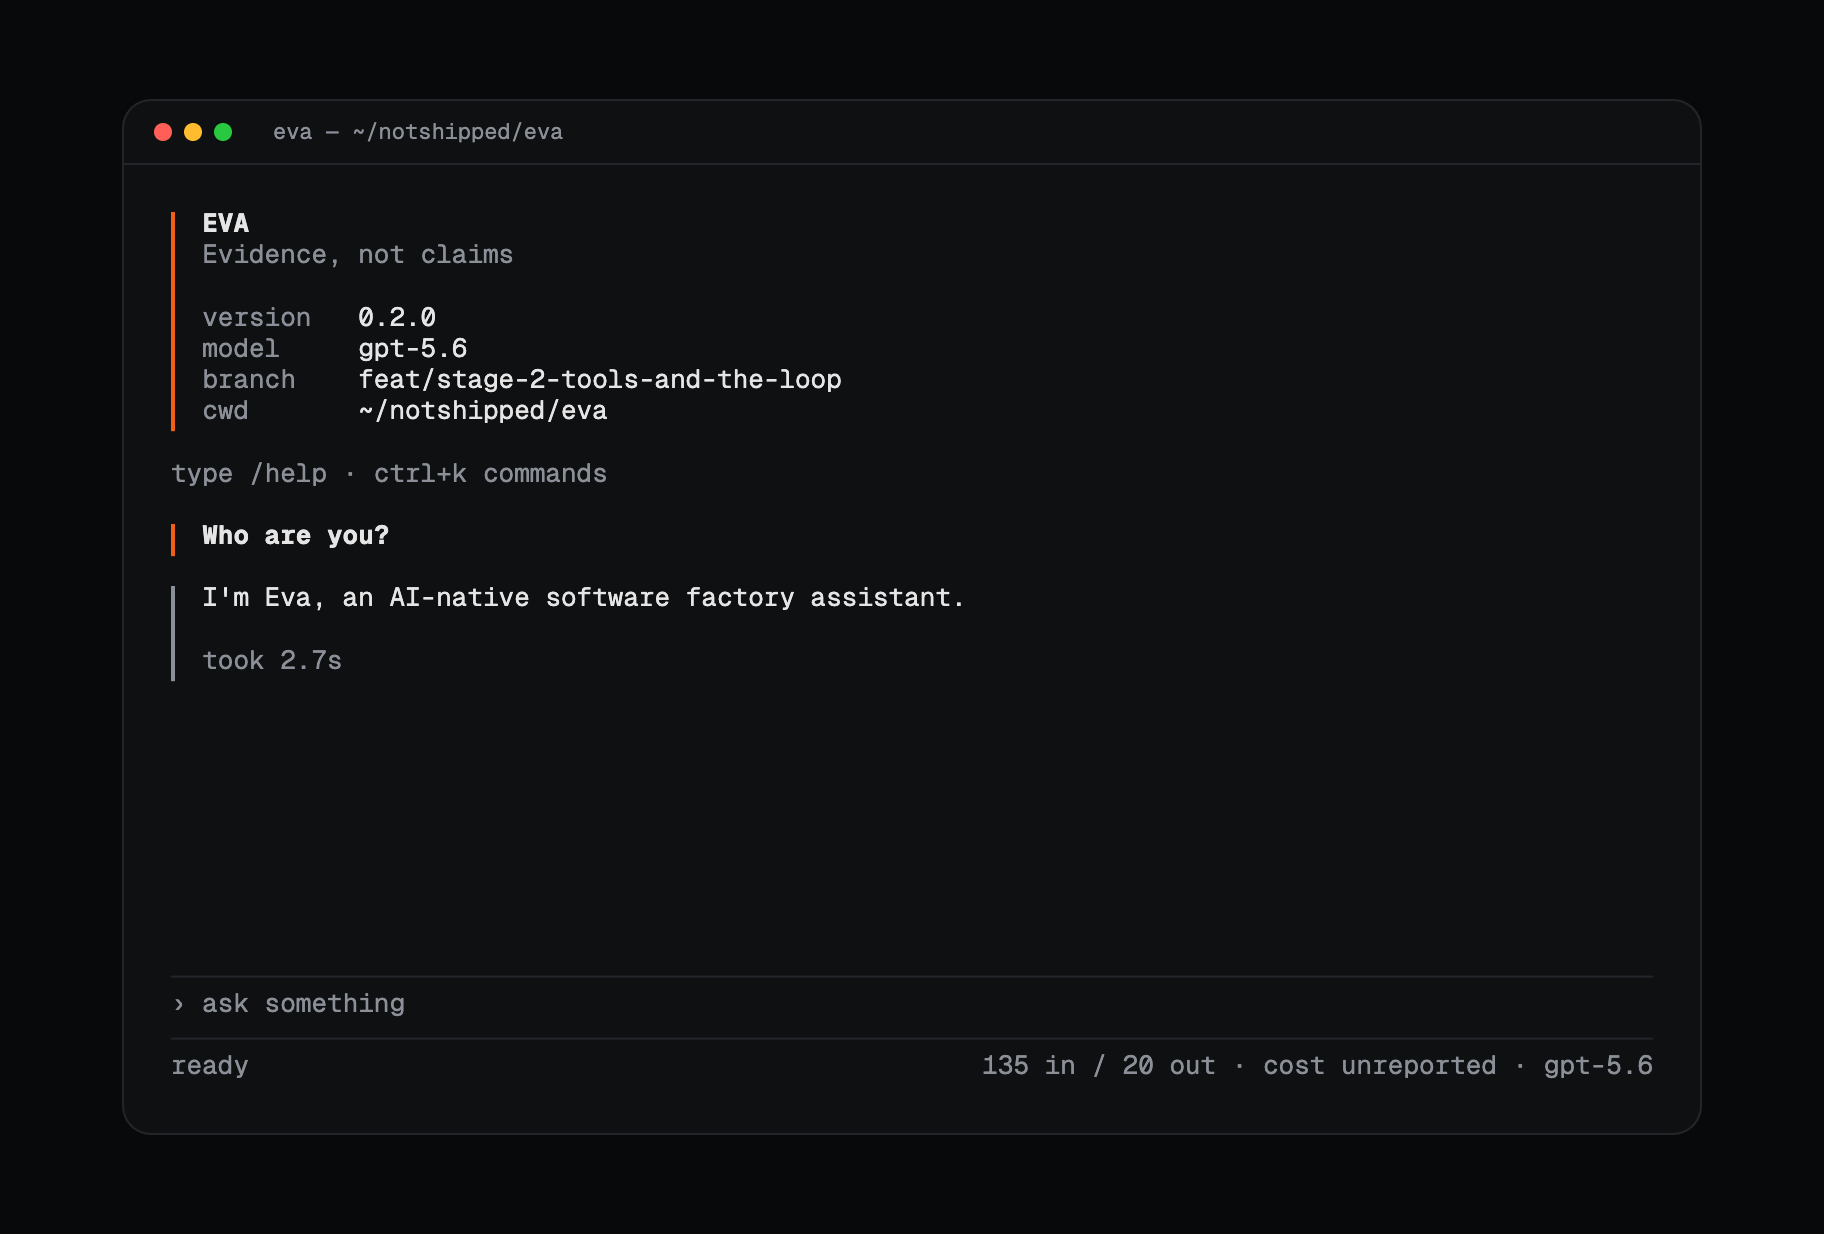
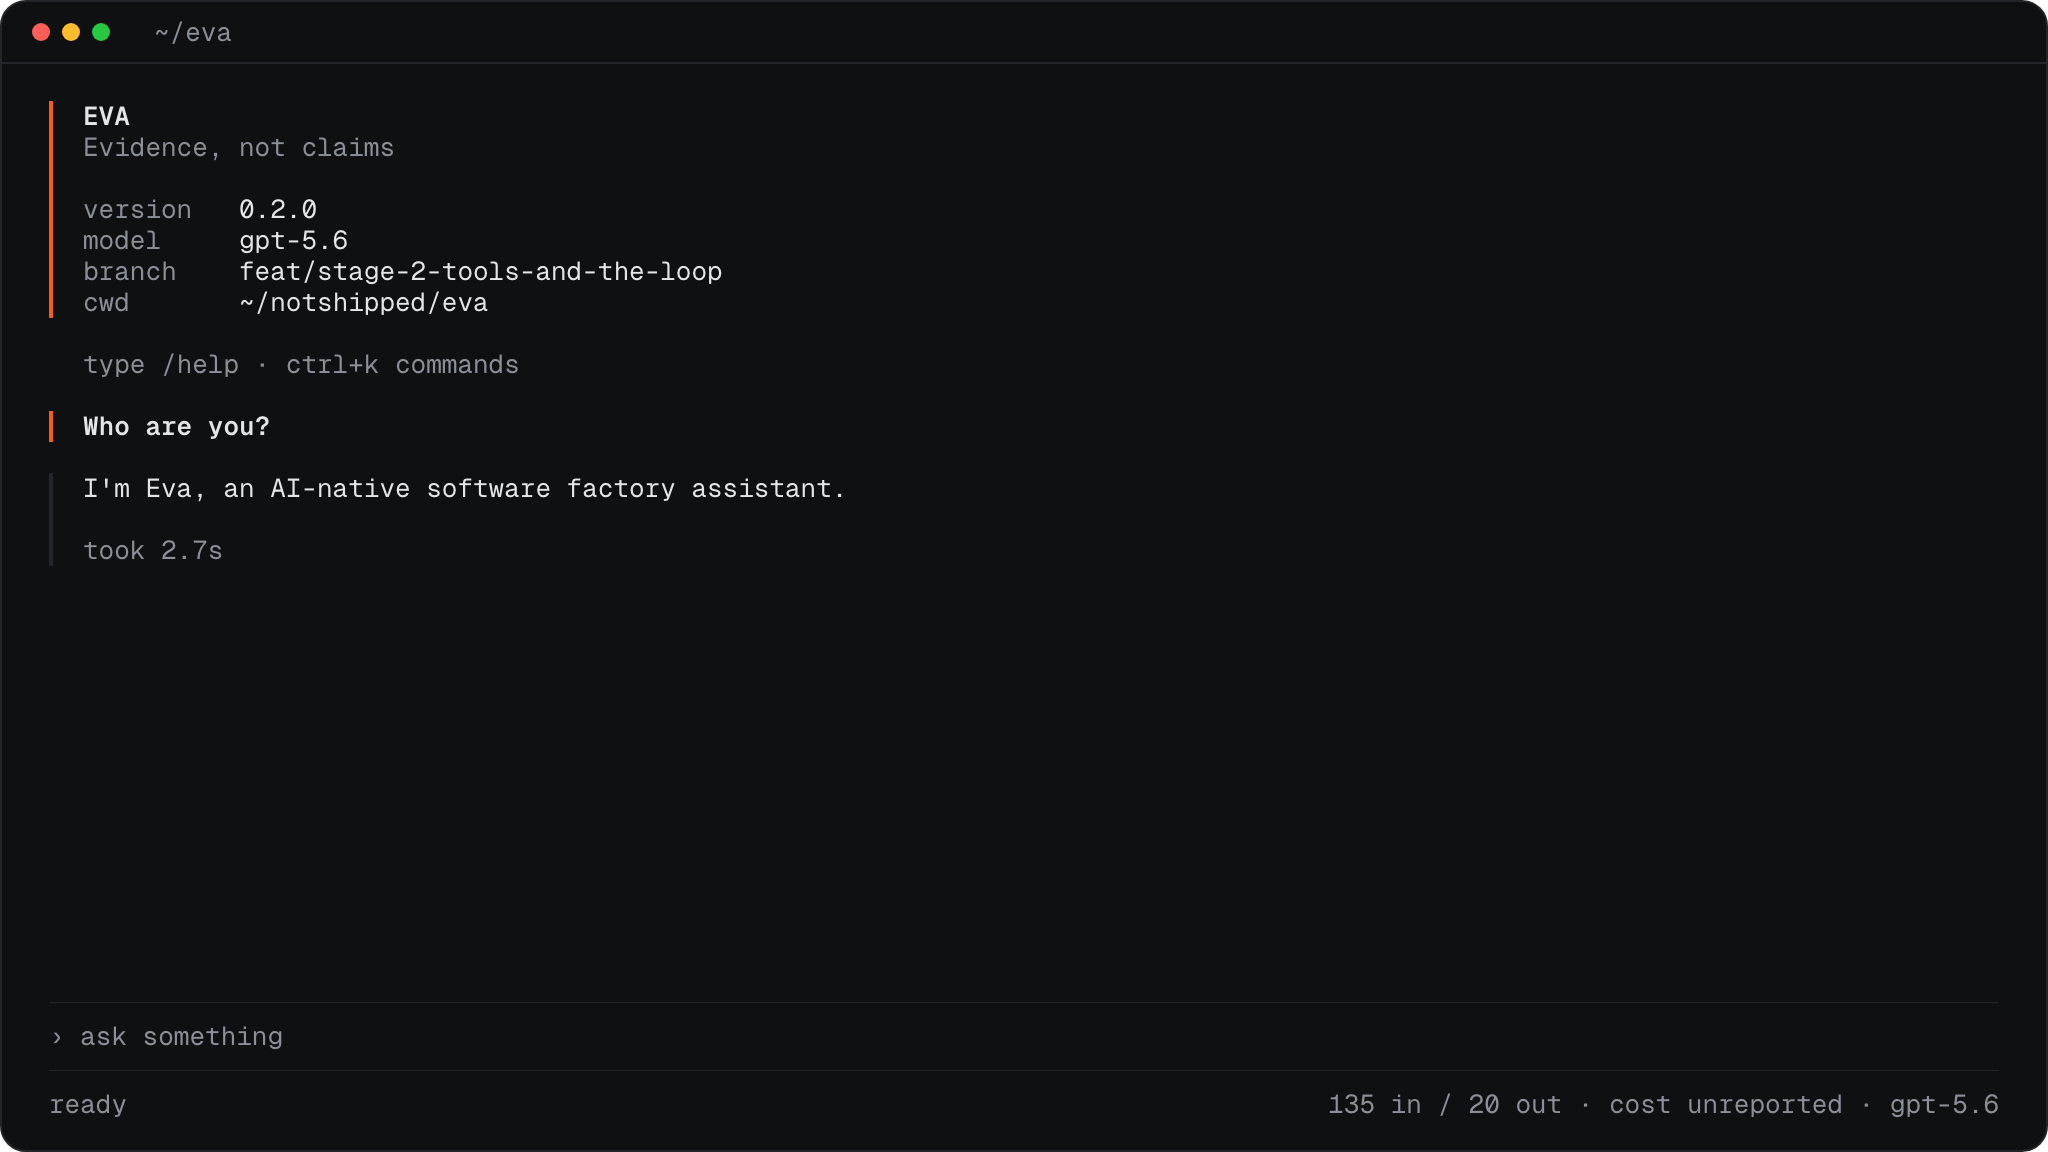
feat(www): the console stands on a backdrop, the tagline on two lines
The console capture is a window on a transparent margin. On a panel of
the same near-black it read as an empty box with a hairline drawn round
the padding, so the band carries a backdrop now and the window stands on
it, the way a window stands on a desktop.

The capture is rebuilt rather than cropped. It was 26px type in a
1580px frame shown at 1024, which is 1.54x — every glyph softened, and
19px of apparent type against the 13px the scale sets for code. It is
now a true 2x asset: 2048x1152, so the mono lands at 13px and the pixels
land on the grid. 293px of dead terminal above the composer went with it.

The tagline sets on two lines, and where it breaks is editorial. At the
prose measure it could not: the second line wants 749px and the measure
allows 680, so it fell to three. `max-w-hero` holds it, and the two
lines are two blocks because `text-wrap: balance` prefers the other
break — 719/423 has the shorter longest line. The hero climbs to 56px at
800px rather than 768px, because between the two the column is short of
749 and the second line folded. Same step, taken 32px later.

diff --git a/apps/www/src/marketing/sections.tsx b/apps/www/src/marketing/sections.tsx
@@ -5,10 +5,17 @@ import { faq } from "./faq.js"
 import { Install } from "./install.js"
 import { armReveals } from "./reveal.js"
 import { site, siteData } from "../lib/site.js"
+import backdrop from "../../../../assets/sea.webp"
 
 const doc = (slug: DocSlug) => site.doc(slug)
 
 const step = (index: number) => ({ "--reveal-index": index }) as CSSProperties
+
+// The hero sets the tagline on two lines. The break falls after the second word.
+const taglineLines = (tagline: string) => {
+  const words = tagline.split(" ")
+  return [words.slice(0, 2).join(" "), words.slice(2).join(" ")]
+}
 
 export function Reveals() {
   useEffect(() => armReveals(), [])
@@ -196,10 +203,20 @@ export function Hero() {
       <div className="max-w-page relative mx-auto px-6 pt-20 pb-16 sm:pt-28">
         {/*
           The tagline is one string in the ui package. The site never
-          restates it in its own words, so the headline reads it rather than
-          spelling it out again.
+          restates it in its own words, so the headline splits that string
+          rather than spelling the words out again.
+
+          Where it breaks is editorial, not whatever the box decides, so the
+          two lines are two blocks. A box too narrow for the second line adds
+          a line below the break, but nothing moves the break itself.
         */}
-        <h1 className="d-hero reveal max-w-measure">{entity.product.tagline}</h1>
+        <h1 className="d-hero reveal max-w-hero">
+          {taglineLines(entity.product.tagline).map((line) => (
+            <span key={line} className="block">
+              {line}
+            </span>
+          ))}
+        </h1>
 
         <p className="lede reveal max-w-measure mt-6">
           A local-first control center for coding agents. They run in parallel, and they ship
@@ -220,19 +237,29 @@ export function Hero() {
   )
 }
 
+/*
+  The capture is a window on a transparent margin. On a panel of the same
+  near-black it read as an empty box with a hairline around the padding, so
+  the window sits on a backdrop instead — the way a window sits on a desktop.
+  The band is the image now, so the band carries the edge, and the window
+  keeps the border it was captured with.
+*/
 export function Screenshot({ src }: { src: string }) {
   return (
     <Section label="The console" beat="section-y-tight">
       <Harnesses />
 
-      <div className="panel-terminal reveal overflow-hidden rounded-xl p-2">
-        <img
-          src={src}
-          alt="Eva answering a question in the terminal"
-          width={1824}
-          height={1234}
-          className="image-edge w-full rounded-lg"
-        />
+      <div className="image-edge reveal relative isolate overflow-hidden rounded-xl">
+        <img src={backdrop} alt="" className="absolute inset-0 -z-10 size-full object-cover" />
+        <div className="p-4 sm:p-10 lg:p-16">
+          <img
+            src={src}
+            alt="Eva answering a question in the terminal"
+            width={2048}
+            height={1152}
+            className="w-full"
+          />
+        </div>
       </div>
     </Section>
   )

diff --git a/packages/ui/src/styles/typography.css b/packages/ui/src/styles/typography.css
@@ -33,7 +33,8 @@
     text-wrap: balance;
   }
 
-  /* Mobile first: each step opens one down and climbs at 768px. */
+  /* Mobile first: each step opens one down and climbs at 768px — the hero
+     32px later than the rest, for the reason given below. */
   .d-hero {
     font-size: var(--text-heading-lg);
     line-height: var(--text-heading-lg--line-height);
@@ -75,6 +76,20 @@
       font-size: var(--text-heading-sm);
       line-height: var(--text-heading-sm--line-height);
       letter-spacing: var(--tracking-heading-sm);
+    }
+  }
+
+  /*
+     The hero climbs one step later than the rest. At 56px the tagline's
+     second line wants 749px, and the column does not reach that until the
+     viewport is about 800px — between 768px and there the line folded and the
+     headline set on three. The step is the same step, taken 32px later.
+  */
+  @media (48rem <= width < 50rem) {
+    .d-hero {
+      font-size: var(--text-heading-lg);
+      line-height: var(--text-heading-lg--line-height);
+      letter-spacing: var(--tracking-heading-lg);
     }
   }
 

diff --git a/packages/ui/src/styles/tokens.css b/packages/ui/src/styles/tokens.css
@@ -157,11 +157,14 @@
 
   /*
      Page geometry. Content centres at the container with a gutter either
-     side; prose caps at the measure. These answer as utilities: `max-w-page`,
-     `max-w-measure`.
+     side; prose caps at the measure. The hero caps wider than prose, because
+     the tagline's second line is longer than the measure allows and would
+     otherwise fall to a third. These answer as utilities: `max-w-page`,
+     `max-w-measure`, `max-w-hero`.
   */
   --container-page: 75rem;
   --container-measure: 42.5rem;
+  --container-hero: 48rem;
 }
 
 :root {
